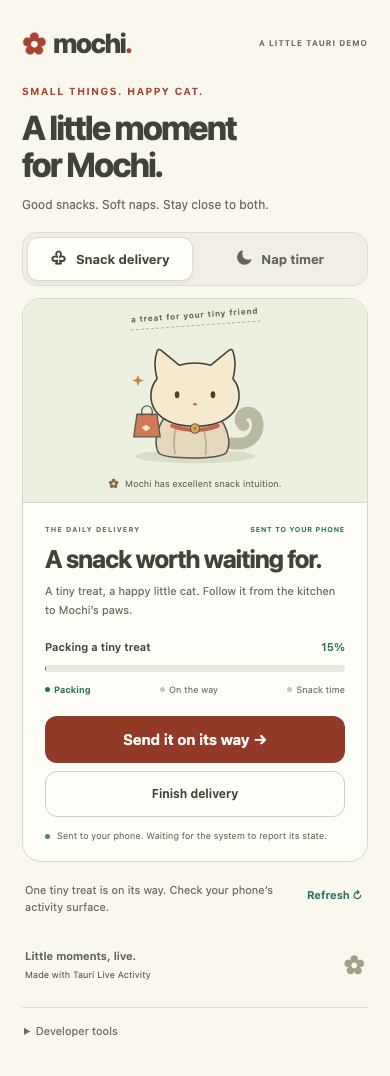
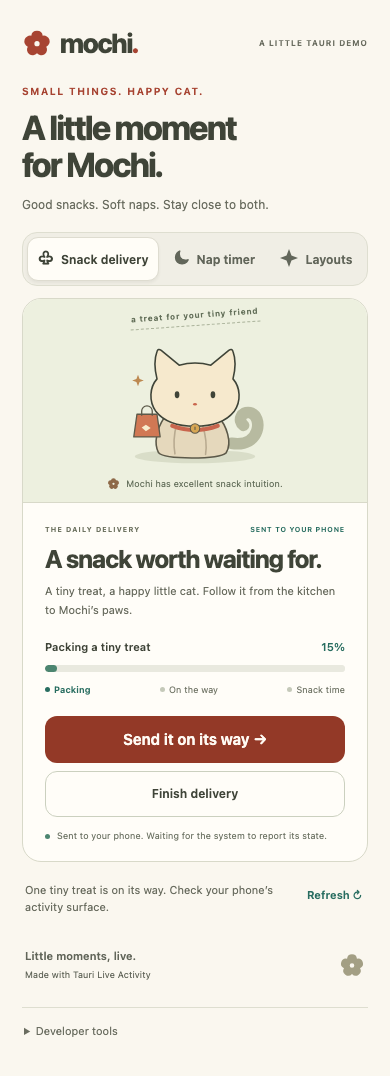
test: the browser check of the demo's page runs again
examples/demo/tests/browser-qa.ts, which no workflow runs, had failed since the Layouts tab came on 2026-11-06:

- It opened Developer tools by clicking `summary`, of which the page has had two since then.
- Its stand-in for the native side answered what the lifecycle test asked at that time. The test has grown: it
  asks for the push tokens and for a scheduled start, which the stand-in did not know.

The check opens Developer tools by its own summary. The stand-in answers the capabilities of layouts, the push
tokens and a start at a later time, which is pending and takes no update. The check counts the lifecycle test's 30
checks on it and says which one failed when one does. A new check walks the Layouts tab: an example starts, takes
new values and ends, with axe on that view.

The previews and the report are of this run, on the page with its drawn ornaments: 15 checks, 9 previews, among
them the Layouts tab. Nothing said that the report had been left behind, so a test of the demo holds it to the
script now, by the names of the checks and by the previews that are kept; it was seen failing on the report of
main. The design notes spoke of 13 lifecycle checks and of tests with published packages: they say what holds now,
that no workflow runs the check, and where the pictures of the app itself are.

diff --git a/examples/demo/tests/browser-qa.ts b/examples/demo/tests/browser-qa.ts
@@ -168,9 +168,10 @@ function adapter(config: QaConfig): void {
     const operation = name.replace(/_layout$/, '');
     if (config.delay) await new Promise(resolve => setTimeout(resolve, config.delay));
     const permissions = (): Partial<Permissions> => ({ notifications: platform === 'android' ? permission : 'notApplicable', liveActivities: platform === 'ios' ? permission : 'notApplicable', promotion: 'notApplicable' });
-    if (operation === 'get_capabilities') return { platform, backend: platform === 'ios' ? 'activityKit' : 'androidNotification', start: config.unsupported ? 'unsupported' : 'supported', progress: 'supported', timer: 'supported' } satisfies Partial<Capabilities>;
+    if (operation === 'get_capabilities') return { platform, backend: platform === 'ios' ? 'activityKit' : 'androidNotification', start: config.unsupported ? 'unsupported' : 'supported', progress: 'supported', timer: 'supported', layout: 'supported', push: 'unsupported' } satisfies Partial<Capabilities>;
     if (operation === 'check_permissions') return permissions();
     if (operation === 'request_permissions') { permission = 'granted'; return permissions(); }
+    if (operation === 'push_tokens') return { activities: [] };
     if (operation === 'list') {
       if (config.failListAfterStart && records.length > 0) { config.failListAfterStart = false; return fail('NATIVE_ERROR', 'Temporary observation failure.'); }
       return structuredClone(records.filter(record => (record.schemaVersion === 2) === layout));
@@ -181,7 +182,9 @@ function adapter(config: QaConfig): void {
       const input = args.input;
       const previous = records.find(record => record.activityKey === input.activityKey && record.state !== 'ended');
       if (previous) return structuredClone(previous);
-      const record: QaRecord = { ...input, id: `qa-${++serial}`, backend: platform === 'ios' ? 'activityKit' : 'androidNotification', state: config.pending ? 'unknown' : 'active', visibility: 'unknown', promotionRequested: false, promotionState: 'notApplicable', degradedFeatures: [] };
+      // A start at a later time is pending until then, and the preview never gets there.
+      const later = 'scheduled' in input && input.scheduled !== undefined;
+      const record: QaRecord = { ...input, id: `qa-${++serial}`, backend: platform === 'ios' ? 'activityKit' : 'androidNotification', state: config.pending ? 'unknown' : later ? 'pending' : 'active', visibility: 'unknown', promotionRequested: false, promotionState: 'notApplicable', degradedFeatures: [] };
       records = [...records, record];
       return structuredClone(record);
     }
@@ -189,6 +192,7 @@ function adapter(config: QaConfig): void {
       const previous = records.find(record => record.id === args.input.id);
       if (!previous || (operation === 'update' && previous.state === 'ended')) return fail('NOT_FOUND', 'Activity ended.');
       if (operation === 'update') {
+        if (previous.state === 'pending') return fail('CONFLICT', 'The activity has not begun.');
         const snapshot = args.input.snapshot;
         if (snapshot.revision < previous.snapshot.revision) return fail('STALE_REVISION', 'Stale revision.');
         if (snapshot.revision === previous.snapshot.revision && JSON.stringify(snapshot) !== JSON.stringify(previous.snapshot)) return fail('CONFLICT', 'Conflicting revision.');
@@ -199,6 +203,7 @@ function adapter(config: QaConfig): void {
       return structuredClone(record);
     }
     if (command === 'save_self_test_report') return 'app-data/self-test-report.json';
+    if (command === 'self_test_requested') return false;
     throw new Error(`Unhandled QA command: ${command}`);
   } };
 }
@@ -274,20 +279,39 @@ try {
     await page.locator('#end').click(); await ready(page);
     assert.equal(await page.locator('#start').isVisible(), true);
   });
-  await check('Lifecycle runner remains opt-in and preserves all 19 checks', async () => {
+  await check('Lifecycle runner remains opt-in and passes its 30 checks', async () => {
     assert.equal(await page.locator('#self-test-report').getAttribute('data-status'), 'idle');
-    await page.locator('summary').click();
+    await page.locator('.developer-tools summary').click();
     await page.locator('#run-self-test').click(); await ready(page);
     const report: unknown = JSON.parse(await page.locator('#self-test-report').innerText());
-    assert.equal(member(report, 'status'), 'passed'); assert.equal(list(member(report, 'checks'), 'the checks').length, 19);
+    // 13 of the templates, 6 of a layout, 1 of a start that asks for a push token where there are no pushes, 3 of a
+    // switch and a link, 2 of the small region and 5 of a scheduled start.
+    assert.equal(member(report, 'status'), 'passed', JSON.stringify(report));
+    assert.equal(list(member(report, 'checks'), 'the checks').length, 30);
     assert.match(await page.locator('#report-path').innerText(), /Saved report/);
   });
   await check('Narrow 320px layout has no horizontal overflow', async () => {
     await page.setViewportSize({ width: 320, height: 740 }); await noOverflow(page);
-    await page.locator('summary').click();
+    await page.locator('.developer-tools summary').click();
     await capture(page, 'narrow-empty', 'At 320px the labels and primary action remain within the viewport without horizontal scrolling.');
   });
   await page.close();
+  const layouts = await open(); await ready(layouts);
+  await check('Layouts: an example starts, takes new values and ends', async () => {
+    await layouts.locator('#mode-layout').click();
+    await layouts.locator('#example-styles').click();
+    // The request is in a part of the page that is closed: the text is there, and nothing of it is drawn.
+    assert.match(await layouts.locator('#layout-request').evaluate(request => request.textContent ?? ''), /"activityKey": "mochi:styles"/);
+    await layouts.locator('#layout-start').click(); await ready(layouts);
+    assert.match(await layouts.locator('#message').innerText(), /Changing styles is on its way/);
+    await layouts.locator('#layout-update').click(); await ready(layouts);
+    assert.match(await layouts.locator('#message').innerText(), /New values sent at revision 1/);
+    assert.equal(await layouts.evaluate(() => window.__MOCHI_QA__.records[0]?.snapshot.revision), 1);
+    await noOverflow(layouts); await accessible(layouts);
+    await capture(layouts, 'mobile-layouts', 'The Layouts tab with one chip per example and an example under way: new values or the end. Browser adapter only.');
+    await layouts.locator('#layout-end').click(); await ready(layouts);
+    assert.equal(await layouts.locator('#layout-start').isVisible(), true);
+  }); await layouts.close();
   const receipt = await open({ failListAfterStart: true }); await ready(receipt);
   await check('A successful receipt survives a failed refresh and mode switching', async () => {
     await receipt.locator('#start').click(); await ready(receipt);

diff --git a/examples/demo/tests/setup.test.ts b/examples/demo/tests/setup.test.ts
@@ -1,6 +1,6 @@
 // The demo is set up for layouts the way docs/usage.md tells an app to be, on activitykit's Swift products.
 import assert from 'node:assert/strict';
-import { readFileSync } from 'node:fs';
+import { existsSync, readFileSync } from 'node:fs';
 import { join } from 'node:path';
 import { test } from 'node:test';
 import { list, member } from '../../../tests/support.ts';
@@ -69,6 +69,18 @@ test('the page draws its two ornaments itself, and has neither as a character', 
   // sheet gives the drawings their size.
   assert.doesNotMatch(page, /\sstyle\s*=|<style[\s>]/);
   assert.match(read('../src/styles.css'), /^\.glyph \{ width: 1em; height: 1em; /m);
+});
+
+test('the report of the browser check is of the check as it stands: its checks by their names, and the previews it keeps', () => {
+  // No workflow runs examples/demo/tests/browser-qa.ts, so nothing else says when its report was left behind.
+  const script = read('./browser-qa.ts');
+  const report: unknown = JSON.parse(read('../design/browser-report.json'));
+  const checks = [...script.matchAll(/await check\('([^']+)'/g)].map(match => match[1]);
+  const previews = [...script.matchAll(/await capture\(\w+, '([^']+)'/g)].map(match => `${match[1]}.png`);
+  assert.ok(checks.length > 0 && previews.length > 0, 'the script names its checks and previews in another way now');
+  assert.deepEqual(list(member(report, 'checks'), 'the checks of the report'), checks);
+  assert.deepEqual(list(member(report, 'renderedEvidence'), 'the previews of the report').map(preview => member(preview, 'artifact')), previews);
+  for (const preview of previews) assert.ok(existsSync(new URL(`../design/${preview}`, import.meta.url)), `no file ${preview}`);
 });
 
 // TP-ANDROID-18

diff --git a/examples/demo/design/README.md b/examples/demo/design/README.md
@@ -4,7 +4,8 @@ The [design contract](contract.md) defines the screen and its states. The
 [browser report](browser-report.json) records automated checks and rendered
 previews at 390×844, 1440×900, and a supplemental 320px width. These screenshots
 use an injected IPC adapter; they are not evidence of a visible native activity.
-Actual device and simulator results live under the repository's `tests/` tree.
+Pictures of the app itself, on a simulator and an emulator, are in the
+[demo's README](../README.md).
 
 Run the pure scenario and lifecycle tests with `npm run test:demo` from the
 repository root. The command enforces 80% line, branch, and function coverage.
@@ -21,19 +22,20 @@ node "$qa_dir/node_modules/playwright/cli.js" install chromium
 npm run build:demo
 PLAYWRIGHT_MODULE="$qa_dir/node_modules/playwright/index.mjs" \
 AXE_MODULE="$qa_dir/node_modules/@axe-core/playwright/dist/index.mjs" \
-  node examples/demo/tests/browser-qa.ts
+  node --experimental-strip-types examples/demo/tests/browser-qa.ts
 ```
 
 The runner serves only the four built frontend files on loopback, exercises the
-snack and nap flows, checks keyboard focus, permissions, unknown OS state, long
-error text, responsive widths, and the opt-in 13-check lifecycle runner. Axe
-checks WCAG A/AA rules on representative views. It writes local PNG previews and
-`browser-report.json` here. It does not prompt for native permissions or contact
-an external screenshot service.
+snack and nap flows and one layout example, checks keyboard focus, permissions,
+unknown OS state, long error text, responsive widths, and the opt-in lifecycle
+test, whose 30 checks pass on the adapter. Axe checks WCAG A/AA rules on
+representative views. It writes local PNG previews and `browser-report.json`
+here. It does not prompt for native permissions or contact an external
+screenshot service. No workflow runs it: run it after a change to the page.
 
 Review the images after running the checks. Automated assertions cannot judge
-whether the illustration, spacing, or copy feel right. The same frontend is also checked inside actual Tauri apps using published
-packages.
+whether the illustration, spacing, or copy feel right. The same page is checked
+inside the app by the UI tests on an iOS Simulator (`tests/ios/run.sh`).
 
 Reference patterns: [native toggle button state](https://developer.mozilla.org/en-US/docs/Web/Accessibility/ARIA/Reference/Attributes/aria-pressed)
 and [reduced motion](https://developer.mozilla.org/en-US/docs/Web/CSS/Reference/At-rules/%40media/prefers-reduced-motion).

diff --git a/examples/demo/design/contract.md b/examples/demo/design/contract.md
@@ -7,8 +7,10 @@ it while the same state appears on the phone's native activity surface.
 The previous screen placed request fields and raw JSON ahead of the activity.
 Keep those diagnostics available in a collapsed Developer tools section. The
 first viewport should instead show Mochi, the selected activity, its state, and
-one primary action. The illustration is a compact cat drawn in local SVG; no
-external assets or network font requests are needed.
+one primary action. The illustration is a compact cat drawn in local SVG, as
+are the flower of the wordmark and the spark of the Layouts tab, two characters
+for which an iOS Simulator has no glyph; no external assets or network font
+requests are needed.
 
 Visual direction: warm cream, dark brown text, restrained coral actions, and teal
 progress. A small stitched-label motif belongs to the pet's delivery, rather
@@ -36,7 +38,7 @@ visible, and motion respects reduced-motion settings.
 | Success | Snack reaches home or activity ends | Delivered/completed message and next action | Finish or start again |
 | Permission | Notification access missing or Live Activities disabled | Brief reason and platform-appropriate permission/settings action | Explicit user-triggered permission check/request |
 
-The native lifecycle runner keeps its existing 13 assertions and opt-in startup
+The lifecycle test of Developer tools stays opt-in: its button, or a startup
 flag. Browser QA may inject a test IPC adapter to inspect UI states; such captures
-are UI preview evidence only. Published-package native tests and final native
-screenshots are recorded separately.
+are UI preview evidence only. Pictures of the app on a simulator and an emulator
+are in the [demo's README](../README.md).
